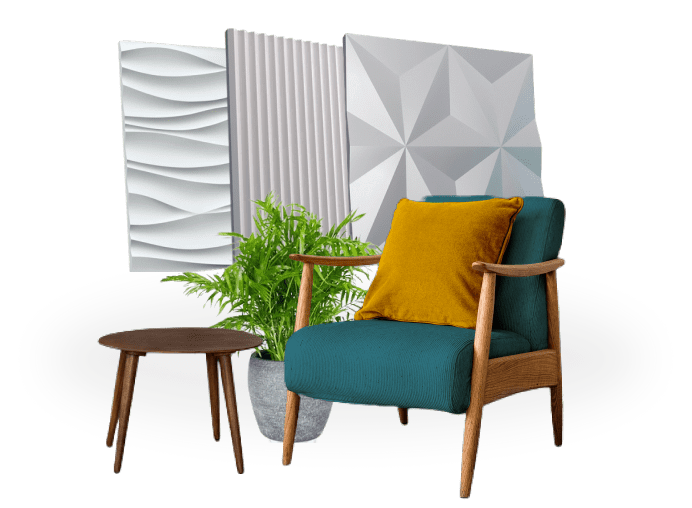
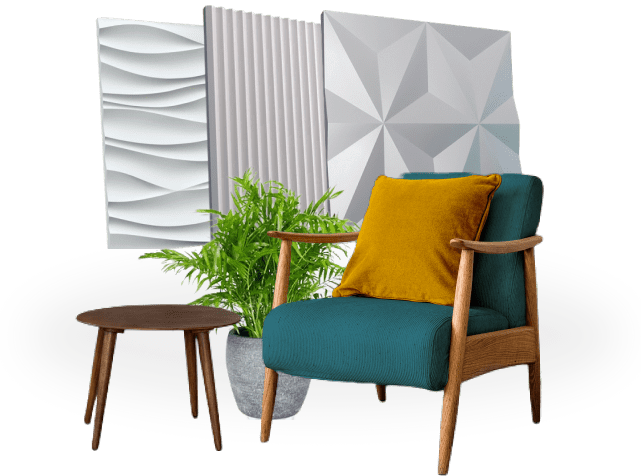
firstscreen apadtation

Changed region(s): [[0.1248, 0.0, 0.8736, 1.0]]

diff --git a/assets/css/style.min.css b/assets/css/style.min.css
@@ -1,1 +1,1 @@
-*{padding:0;margin:0;border:0}*,*:before,*:after{box-sizing:border-box}:focus,:active{outline:none}a:focus,a:active{outline:none}nav,footer,header,aside{display:block}html,body{height:100%;width:100%;line-height:1;font-family:PT Serif;font-size:16px;color:#515151;-ms-text-size-adjust:100%;-moz-text-size-adjust:100%;-webkit-text-size-adjust:100%}input,button,textarea{font-family:inherit}input::-ms-clear{display:none}button{cursor:pointer}button::-moz-focus-inner{padding:0;border:0}a,a:visited{text-decoration:none}a:hover{text-decoration:none}ul li{list-style:none}img{vertical-align:top}h1,h2,h3,h4,h5,h6{font-size:inherit;font-weight:inherit;line-height:1.3em}h2{color:#515151;font-family:PT Serif;font-size:30px;max-width:750px}p,a,li{line-height:1.3em}a{color:#515151}.icon{width:30px;height:30px}.container{max-width:1184px;width:100%;margin:0 auto;padding:0 20px}.button{font-family:PT Serif Caption;width:375px;border-radius:40px;background:linear-gradient(143deg, #64bbf8 0%, #011f90 100%);box-shadow:0px 0px 10px 10px rgba(1,31,144,.1);padding:24px 20px;color:#fff;font-size:20px}.hidden{display:none}@media(max-width: 480){body,html{font-size:14px}}.header{top:0;left:0;width:100%;background-color:#e4f4ff;padding:16px 0}.header__wrapper{display:flex;justify-content:space-between;align-items:center}.header__logo{width:97px;height:83px}.header__menu{display:flex;align-items:center;margin:0 20px}.header__phone{display:flex;align-items:center}.header__phone-link{display:flex;align-items:center;font-size:20px}.header__phone-link svg{margin-right:10px}.menu__list{display:flex;align-items:center;margin:0 -12.5px}.menu__item{display:inline-block;padding:0 12.5px}.menu__link{font-size:18px}.burger-icon{display:none;flex-direction:column;justify-content:space-between;width:30px;height:20px;cursor:pointer}.burger-icon span{display:block;width:100%;height:3px;background-color:#000;transition:background-color .3s}.burger-menu.active .burger-icon span:nth-child(1){transform:rotate(45deg) translate(7px, 7px)}.burger-menu.active .burger-icon span:nth-child(2){opacity:0}.burger-menu.active .burger-icon span:nth-child(3){transform:rotate(-45deg) translate(5px, -5px)}@media screen and (max-width: 1080px){.burger-icon{display:flex}.header__menu{display:none}.burger-menu.active .header__menu{display:flex}.header__wrapper{justify-content:flex-end}.header__logo{order:1;margin-right:auto}.header .burger-menu{order:3;margin-left:20px}.header__phone{order:2}.header__menu{position:absolute;top:120px;right:0;flex-direction:column}.menu__list{align-items:flex-start;flex-direction:column;align-items:stretch;margin:0;z-index:5;background-color:#e4f4ff}.menu__item{padding:10px 15px}}@media screen and (max-width: 480px){.header{padding:4px 0}.header__logo{width:60px;max-height:60px}.header__phone span{display:none}.header__menu{top:80px}.menu__link{font-size:16px}}.firstscreen{background:linear-gradient(180deg, #e4f4ff 0%, #ceebff 100%);padding:44px 0 55px}.firstscreen__wrapper{position:relative}.firstscreen__top{display:flex;justify-content:space-between}.firstscreen__left{position:relative;z-index:1}.firstscreen__content{max-width:665px}.firstscreen__title{font-size:34px;font-weight:700}.firstscreen__title strong{color:#3875c9}.firstscreen__subtitle{font-size:24px;margin-top:24px}.firstscreen__subtitle-bottom{color:#3875c9;font-weight:700;margin-top:10px}.firstscreen__button{margin-top:30px}.firstscreen__button-sale{position:relative}.firstscreen__button-video{position:relative;max-width:none;width:auto;padding:20px 15px 20px 73px;font-size:16px;margin-left:115px;line-height:1em}.firstscreen__button-video .icon{width:60px;height:60px;position:absolute;left:-5px;top:0}.firstscreen__sale{position:absolute;right:-65px;top:-16px}.firstscreen__right{position:relative}.firstscreen__right img{position:absolute;top:18px;right:-126px}.firstscreen__bottom{position:relative;z-index:1}.firstscreen__list{display:flex;justify-content:space-between;flex-wrap:wrap;margin-top:45px}.firstscreen__item{display:flex;align-items:flex-start;max-width:362px;border:1px solid #64bbf8;background:#fff;padding:20px;border-radius:5px}.firstscreen__item img{max-width:67px}.firstscreen__item-content{margin-left:15px}.firstscreen__item-content h3{color:#515151;font-size:18px;font-weight:700}.firstscreen__item-content p{margin-top:5px}.about{margin-top:30px}.about__wrap{display:flex;justify-content:space-between;margin-top:60px}.about__left{width:49%;height:auto}.about__left img{width:100%;height:100%;-o-object-fit:cover;object-fit:cover;border-radius:5px;box-shadow:0px 4px 4px 0px rgba(0,0,0,.25)}.about__right{display:flex;flex-direction:column;align-items:center;width:49%}.about__right img{width:100%;height:300px;-o-object-fit:cover;object-fit:cover;margin-top:28px;border-radius:5px;box-shadow:0px 4px 4px 0px rgba(0,0,0,.25)}.about__list{width:100%;margin-left:calc(2% + 5px)}.about__item:first-child{margin-top:0}.about__item{box-sizing:content-box;list-style-type:disc;margin-left:2%;margin-top:20px;line-height:1.4em}.about .button{margin-top:28px}.step{margin-top:85px}.step__wrapper{display:flex;justify-content:space-between;margin-top:60px}.step__col{width:43%;display:flex;flex-direction:column}.step__col:last-child{margin-top:150px}.step__item:first-child{margin-top:0}.step__item{position:relative;border-radius:5px;border:1px solid #64bbf8;background:#fff;margin-top:72px;padding:17px 30px 25px}.step__top{display:flex;align-items:center}.step__top img{max-width:66px;max-height:66px;-o-object-fit:contain;object-fit:contain}.step__title{margin-left:14px;font-size:20px;font-weight:700}.step__text{margin-top:7px}.step__col:first-child .step__number{top:34%;right:-107px}.step__col:last-child .step__number{top:41%;left:-107px}.step__number{position:absolute;background-color:#3875c9;padding:6px 12px;border-radius:50%;font-size:30px;font-weight:700;border:5px solid #64bbf8;color:#fff;box-shadow:0px 0px 4px 6px #64bbf8}.step__col:first-child .step__number::before{right:100%}.step__col:last-child .step__number::before{left:100%}.step__number::before{content:"";position:absolute;display:block;top:calc(50% - .5px);width:100px;height:1px;background:#64bbf8;z-index:-1}.step__number::after{content:"";position:absolute;display:block;top:100%;left:calc(50% - .5px);width:1px;height:120px;background:#64bbf8;z-index:-1}.step__item:last-child .step__number:after{display:none}.step__download{margin-top:30px;text-align:center}.step__download a{color:#3875c9;font-size:20px;text-decoration-line:underline}.step .button{margin-top:20px}.catalog{margin-top:85px}.catalog__list{display:flex;flex-wrap:wrap;margin:50px -15px -15px -15px}.catalog__item{width:calc(25% - 30px);display:flex;flex-direction:column;border-radius:5px;border:1px solid #64bbf8;background:#fff;margin:21px 15px}.catalog__image{width:100%;height:165px;border-radius:5px 5px 0px 0px;-o-object-fit:cover;object-fit:cover}.catalog__sale{display:flex;justify-content:flex-end;align-items:center;background:#ececec;color:#353535}.catalog__sale strong{color:#515151;font-weight:700;border-radius:10px 0px 0px 0px;background:rgba(131,204,255,.4);padding:3px 15px 4px;margin-left:10px}.catalog .catalog__content{padding:10px 20px 25px}.catalog__item-title{font-size:20px;font-weight:700}.catalog__more{font-family:PT Serif Caption;margin-top:18px;color:#3875c9;float:right;text-decoration-line:underline}.catalog .button{width:100%;font-size:16px;padding:12px 15px;margin-top:18px}.feedback{background:rgba(131,204,255,.4);padding:48px 0;margin-top:65px}.feedback__wrapper{display:flex;justify-content:space-between;align-items:center}.feedback__title{font-size:30px;font-weight:400}.feedback__button{display:flex;align-items:center;border-radius:40px;background:linear-gradient(143deg, #64f873 0%, #019007 100%);box-shadow:0px 0px 10px 10px rgba(1,31,144,.1);padding:20px 30px 15px;margin-left:20px}.feedback .icon{margin-right:23px}.feedback .icon use{width:35px;height:36.81px}.director__title{margin-top:65px;font-size:30px;font-weight:400;line-height:40px;letter-spacing:0em;text-align:left}.director__wrapper{margin-top:94px;display:flex}.director__image-wrap{border:30px solid rgba(131,204,255,.4)}.director__info{margin-left:37px;font-size:18px;font-weight:400;line-height:24px;letter-spacing:0em;text-align:left}.director__text{margin-top:30px}.director .button{margin-top:33px;margin-left:243px}.checkout{margin-top:85px}.checkout__list{display:flex;flex-wrap:wrap;margin-top:100px;margin:53px -25px -47px}.checkout__item{position:relative;width:calc(33% - 50px);padding:25px 25px 15px;margin:47px 25px;border-radius:5px;background:var(--unnamed, linear-gradient(180deg, rgba(131, 204, 255, 0.4) 0%, rgba(131, 204, 255, 0) 100%));box-shadow:0px 4px 4px 0px rgba(0,0,0,.25)}.checkout__number{position:absolute;bottom:calc(100% - 2px);left:20px}.checkout__item-title{font-size:20px;font-weight:700}.checkout__text{position:relative;margin-top:5px;z-index:1;max-width:80%}.checkout__img-wrap{position:absolute;bottom:0;right:0;overflow:hidden}.checkout__img{transform:translateX(20px) translateY(25px)}.checkout__button{margin-top:57px;display:flex;justify-content:center}.payment__title{margin-top:85px;font-size:30px;line-height:40px;text-align:left;color:#515151}.payment__wrap{display:flex;justify-content:space-between}.payment__left{width:48%;padding-bottom:60px}.payment__left-title{font-size:24px;font-weight:700;line-height:32px;letter-spacing:0em;text-align:left;margin-top:65px;color:#515151}.payment__text{font-size:18px;line-height:24px;letter-spacing:0em;text-align:left;margin-top:23px;color:#515151}.payment__list{margin-top:22px;font-size:16px;font-weight:700;line-height:21px;letter-spacing:0em;text-align:left;font-size:16px;line-height:21px;letter-spacing:0em;text-align:left;color:#515151}.payment__item{display:flex;margin-top:23px}.payment .icon{margin-right:13px;width:32px;height:32px}.payment__item-text{width:100%}.payment__button{display:flex;justify-content:center;margin-top:39px}.payment__right{width:48%;margin-left:20px}.payment__right img{width:100%;height:100%;-o-object-fit:cover;object-fit:cover}.payment__bottom{background:rgba(131,204,255,.4)}.payment__bottom-wrap{display:flex;align-items:center;justify-content:space-between}.payment__bottom-left{width:48%}.payment__bottom-image{width:100%;height:100%}.payment__bottom-image img{width:100%;height:100%;-o-object-fit:cover;object-fit:cover}.payment__bottom-right{width:50%;margin-left:20px;padding:10px 0}.payment__bottom-title{font-size:24px;font-weight:700;line-height:32px}.payment__bottom-text-wrap{display:flex;margin-top:23px}.payment__bottom-text{width:100%}.action{margin-top:85px}.action__wrapper{display:flex}.action__left{width:41%}.action__image{width:100%;height:100%}.action__image img{width:100%;height:100%;-o-object-fit:cover;object-fit:cover}.action__right{width:55%;margin-left:46px}.action__suptitle{font-size:30px;font-weight:400;line-height:40px}.action__title{margin-top:34px;font-size:24px;font-weight:700;line-height:32px}.action__text{margin-top:19px;font-family:PT Serif;font-size:18px;font-weight:400;line-height:24px;letter-spacing:0em;text-align:left;color:#515151}.action__button-wrap{display:flex;justify-content:space-between;margin-top:46px}.action__button{margin-right:20px;background:#fff;box-shadow:0px 0px 10px 10px rgba(1,31,144,.1);color:#515151}.gallery__title{padding-top:85px;font-family:PT Serif;font-size:30px;font-weight:400;line-height:40px;letter-spacing:0em;text-align:left;color:#515151}.gallery__wrap{display:flex;align-items:flex-end;margin-top:65px}.gallery__right{display:flex;flex-direction:column;margin-left:35px}.gallery__left{display:flex;flex-direction:column}.gallery__image:first-child{margin-top:0}.gallery__image{width:100%;border-radius:5px;margin-top:35px;box-shadow:0px 4px 4px 0px rgba(0,0,0,.2509803922);-o-object-fit:cover;object-fit:cover;-o-object-position:center;object-position:center}.gallery__left .gallery__image:nth-child(1){height:363px}.gallery__left .gallery__image:nth-child(2){height:473px}.gallery__left .gallery__image:nth-child(3){height:319px}.gallery__right .gallery__image:nth-child(1){height:50%}.gallery__right .gallery__image:nth-child(2){height:calc(50% - 35px)}.answer{margin-top:85px}.answer__wrap{margin-top:65px}.answer__details:first-child{margin-top:0}.answer__details{margin-top:17px}.answer__summary{padding:25px 30px;border:1px solid #64bbf8;font-size:24px}.answer__text{padding:0 30px;margin-top:30px}.answer__button{display:flex;justify-content:center;margin-top:46px}.footer{margin-top:50px;padding:40px 0 0 0;background:rgba(131,204,255,.4)}.footer__wrapper{display:flex;flex-direction:column;justify-content:space-between}.footer__top{display:flex;justify-content:space-between;padding-bottom:45px}.footer__top-left{width:48%}.footer__top-left img{width:100%;height:100%;-o-object-fit:cover;object-fit:cover}.footer__top-right{margin-left:20px;width:40%}.footer__top-right .button{max-width:375px;width:100%;margin-top:56px}.footer__top-title{margin-top:46px;font-family:PT Serif;font-size:30px;font-weight:400;line-height:40px;letter-spacing:0em;text-align:left;color:#515151}.footer__top-list{margin-top:34px;font-family:PT Serif;font-size:18px;font-weight:400;line-height:24px;letter-spacing:0em;text-align:left;color:#353535}.footer__top-item{display:flex;align-items:center;margin-top:23px}.footer__top-item .icon{margin-right:15px}.footer__bottom{padding:20px 0 16px;background:#d9d9d9}.footer__bottom-wrapper{display:flex;justify-content:space-between}.footer__left{display:flex;background:#d9d9d9;font-family:PT Serif;font-size:16px;font-weight:400;line-height:21px;letter-spacing:0em;text-align:left;color:#000}.footer__left .footer__bottom-info:last-child{margin-left:106px}.footer__right{display:flex;margin-left:20px}.footer__right .footer__bottom-info{margin-right:40px}
+*{padding:0;margin:0;border:0}*,*:before,*:after{box-sizing:border-box}:focus,:active{outline:none}a:focus,a:active{outline:none}nav,footer,header,aside{display:block}html,body{height:100%;width:100%;line-height:1;font-family:PT Serif;font-size:16px;color:#515151;-ms-text-size-adjust:100%;-moz-text-size-adjust:100%;-webkit-text-size-adjust:100%}input,button,textarea{font-family:inherit}input::-ms-clear{display:none}button{cursor:pointer}button::-moz-focus-inner{padding:0;border:0}a,a:visited{text-decoration:none}a:hover{text-decoration:none}ul li{list-style:none}img{vertical-align:top}h1,h2,h3,h4,h5,h6{font-size:inherit;font-weight:inherit;line-height:1.3em}h2{font-size:30px;max-width:750px}p,a,li{line-height:1.3em}a{color:#515151}.icon{width:30px;height:30px}.container{max-width:1184px;width:100%;margin:0 auto;padding:0 20px}.button{font-family:PT Serif Caption;width:375px;border-radius:40px;background:linear-gradient(143deg, #64bbf8 0%, #011f90 100%);box-shadow:0px 0px 10px 10px rgba(1,31,144,.1);padding:24px 20px;color:#fff;font-size:20px}.hidden{display:none}@media(max-width: 480px){body,html{font-size:16px}h2{font-size:22px}h2{font-size:20px}.button{width:100%;padding:16px 12px;font-size:16px}}.header{top:0;left:0;width:100%;background-color:#e4f4ff;padding:16px 0}.header__wrapper{display:flex;justify-content:space-between;align-items:center}.header__logo{width:97px;height:83px}.header__menu{display:flex;align-items:center;margin:0 20px}.header__phone{display:flex;align-items:center}.header__phone-link{display:flex;align-items:center;font-size:20px}.header__phone-link svg{margin-right:10px}.menu__list{display:flex;align-items:center;margin:0 -12.5px}.menu__item{display:inline-block;padding:0 12.5px}.menu__link{font-size:18px}.burger-icon{display:none;flex-direction:column;justify-content:space-between;width:30px;height:20px;cursor:pointer}.burger-icon span{display:block;width:100%;height:3px;background-color:#000;transition:background-color .3s}.burger-menu.active .burger-icon span:nth-child(1){transform:rotate(45deg) translate(7px, 7px)}.burger-menu.active .burger-icon span:nth-child(2){opacity:0}.burger-menu.active .burger-icon span:nth-child(3){transform:rotate(-45deg) translate(5px, -5px)}@media screen and (max-width: 1080px){.burger-icon{display:flex}.header__menu{display:none}.burger-menu.active .header__menu{display:flex}.header__wrapper{justify-content:flex-end}.header__logo{order:1;margin-right:auto}.header .burger-menu{order:3;margin-left:20px}.header__phone{order:2}.header__menu{position:absolute;top:120px;right:0;flex-direction:column}.menu__list{align-items:flex-start;flex-direction:column;align-items:stretch;margin:0;z-index:5;background-color:#e4f4ff;box-shadow:0px 0px 5px 1px rgba(0,0,0,.0588235294)}.menu__item{padding:10px 15px}}@media screen and (max-width: 480px){.header{padding:4px 0}.header__logo{width:60px;max-height:60px}.header__phone span{display:none}.header__menu{top:80px}.menu__link{font-size:16px}}.firstscreen{background:linear-gradient(180deg, #e4f4ff 0%, #ceebff 100%);padding:44px 0 55px}.firstscreen__wrapper{position:relative}.firstscreen__top{display:flex;justify-content:space-between}.firstscreen__left{position:relative;z-index:1}.firstscreen__content{max-width:665px}.firstscreen__title{font-size:34px;font-weight:700}.firstscreen__title strong{color:#3875c9}.firstscreen__subtitle{font-size:24px;margin-top:24px}.firstscreen__subtitle-bottom{color:#3875c9;font-weight:700;margin-top:10px}.firstscreen__button{margin-top:30px}.firstscreen__button-sale{position:relative}.firstscreen__button-video{position:relative;max-width:none;width:auto;padding:20px 15px 20px 73px;font-size:16px;margin-left:115px;line-height:1em}.firstscreen__button-video .icon{width:60px;height:60px;position:absolute;left:-5px;top:0}.firstscreen__sale{position:absolute;right:-65px;top:-16px}.firstscreen__right{position:relative}.firstscreen__right img{position:absolute;top:18px;right:-80px;width:517.057px;height:auto}.firstscreen__bottom{position:relative;z-index:1}.firstscreen__list{display:flex;justify-content:space-between;flex-wrap:wrap;margin-top:45px}.firstscreen__item{display:flex;align-items:flex-start;max-width:362px;border:1px solid #64bbf8;background:#fff;padding:20px;border-radius:5px}.firstscreen__item img{max-width:67px}.firstscreen__item-content{margin-left:15px}.firstscreen__item-content h3{color:#515151;font-size:18px;font-weight:700}.firstscreen__item-content p{margin-top:5px}@media(max-width: 1360px){.firstscreen__right img{top:18px;right:0;width:450px}.firstscreen__list{justify-content:space-evenly}.firstscreen__item{margin-bottom:20px}}@media(max-width: 1080px){.firstscreen__right{display:none}}@media(max-width: 780px){.firstscreen .button:last-child{padding:20px 15px 20px 73px;margin-left:70px}.firstscreen__button-sale{padding:20px 20px;width:auto}}@media(max-width: 580px){.firstscreen .button:last-child{padding:20px 15px 20px 73px;margin-left:0;margin-top:50px}.firstscreen__button-sale{padding:24px 20px;max-width:375px;width:100%}}@media(max-width: 580px){.firstscreen .button:last-child{padding:20px 15px 20px 73px;margin-left:0;margin-top:50px}.firstscreen__button-sale{padding:24px 20px;max-width:81vw;width:100%}.firstscreen__button-sale img{right:-12vw;top:-3vw;width:27vw}}@media(max-width: 480px){.firstscreen{padding:20px 0}.firstscreen .button:last-child{margin-top:30px}.firstscreen__button-sale{padding:16px 12px;font-size:16px}.firstscreen__title{font-size:26px}.firstscreen__subtitle{font-size:18px}.firstscreen__item{padding:15px 10px}.firstscreen__item img{width:15vw}.firstscreen__item-content h3{font-size:20px}}.about{margin-top:30px}.about__wrap{display:flex;justify-content:space-between;margin-top:60px}.about__left{width:49%;height:auto}.about__left img{width:100%;height:100%;-o-object-fit:cover;object-fit:cover;border-radius:5px;box-shadow:0px 4px 4px 0px rgba(0,0,0,.25)}.about__right{display:flex;flex-direction:column;align-items:center;width:49%}.about__right img{width:100%;height:300px;-o-object-fit:cover;object-fit:cover;margin-top:28px;border-radius:5px;box-shadow:0px 4px 4px 0px rgba(0,0,0,.25)}.about__list{width:100%;margin-left:calc(2% + 5px)}.about__item:first-child{margin-top:0}.about__item{box-sizing:content-box;list-style-type:disc;margin-left:2%;margin-top:20px;line-height:1.4em}.about .button{margin-top:28px}.step{margin-top:85px}.step__wrapper{display:flex;justify-content:space-between;margin-top:60px}.step__col{width:43%;display:flex;flex-direction:column}.step__col:last-child{margin-top:150px}.step__item:first-child{margin-top:0}.step__item{position:relative;border-radius:5px;border:1px solid #64bbf8;background:#fff;margin-top:72px;padding:17px 30px 25px}.step__top{display:flex;align-items:center}.step__top img{max-width:66px;max-height:66px;-o-object-fit:contain;object-fit:contain}.step__title{margin-left:14px;font-size:20px;font-weight:700}.step__text{margin-top:7px}.step__col:first-child .step__number{top:34%;right:-107px}.step__col:last-child .step__number{top:41%;left:-107px}.step__number{position:absolute;background-color:#3875c9;padding:6px 12px;border-radius:50%;font-size:30px;font-weight:700;border:5px solid #64bbf8;color:#fff;box-shadow:0px 0px 4px 6px #64bbf8}.step__col:first-child .step__number::before{right:100%}.step__col:last-child .step__number::before{left:100%}.step__number::before{content:"";position:absolute;display:block;top:calc(50% - .5px);width:100px;height:1px;background:#64bbf8;z-index:-1}.step__number::after{content:"";position:absolute;display:block;top:100%;left:calc(50% - .5px);width:1px;height:120px;background:#64bbf8;z-index:-1}.step__item:last-child .step__number:after{display:none}.step__download{margin-top:30px;text-align:center}.step__download a{color:#3875c9;font-size:20px;text-decoration-line:underline}.step .button{margin-top:20px}.catalog{margin-top:85px}.catalog__list{display:flex;flex-wrap:wrap;margin:50px -15px -15px -15px}.catalog__item{width:calc(25% - 30px);display:flex;flex-direction:column;border-radius:5px;border:1px solid #64bbf8;background:#fff;margin:21px 15px}.catalog__image{width:100%;height:165px;border-radius:5px 5px 0px 0px;-o-object-fit:cover;object-fit:cover}.catalog__sale{display:flex;justify-content:flex-end;align-items:center;background:#ececec;color:#353535}.catalog__sale strong{color:#515151;font-weight:700;border-radius:10px 0px 0px 0px;background:rgba(131,204,255,.4);padding:3px 15px 4px;margin-left:10px}.catalog .catalog__content{padding:10px 20px 25px}.catalog__item-title{font-size:20px;font-weight:700}.catalog__more{font-family:PT Serif Caption;margin-top:18px;color:#3875c9;float:right;text-decoration-line:underline}.catalog .button{width:100%;font-size:16px;padding:12px 15px;margin-top:18px}.feedback{background:rgba(131,204,255,.4);padding:48px 0;margin-top:65px}.feedback__wrapper{display:flex;justify-content:space-between;align-items:center}.feedback__title{font-size:30px;font-weight:400}.feedback__button{display:flex;align-items:center;border-radius:40px;background:linear-gradient(143deg, #64f873 0%, #019007 100%);box-shadow:0px 0px 10px 10px rgba(1,31,144,.1);padding:20px 30px 15px;margin-left:20px}.feedback .icon{margin-right:23px}.feedback .icon use{width:35px;height:36.81px}.director__title{margin-top:65px;font-size:30px;font-weight:400;line-height:40px;letter-spacing:0em;text-align:left}.director__wrapper{margin-top:94px;display:flex}.director__image-wrap{border:30px solid rgba(131,204,255,.4)}.director__info{margin-left:37px;font-size:18px;font-weight:400;line-height:24px;letter-spacing:0em;text-align:left}.director__text{margin-top:30px}.director .button{margin-top:33px;margin-left:243px}.checkout{margin-top:85px}.checkout__list{display:flex;flex-wrap:wrap;margin-top:100px;margin:53px -25px -47px}.checkout__item{position:relative;width:calc(33% - 50px);padding:25px 25px 15px;margin:47px 25px;border-radius:5px;background:var(--unnamed, linear-gradient(180deg, rgba(131, 204, 255, 0.4) 0%, rgba(131, 204, 255, 0) 100%));box-shadow:0px 4px 4px 0px rgba(0,0,0,.25)}.checkout__number{position:absolute;bottom:calc(100% - 2px);left:20px}.checkout__item-title{font-size:20px;font-weight:700}.checkout__text{position:relative;margin-top:5px;z-index:1;max-width:80%}.checkout__img-wrap{position:absolute;bottom:0;right:0;overflow:hidden}.checkout__img{transform:translateX(20px) translateY(25px)}.checkout__button{margin-top:57px;display:flex;justify-content:center}.payment__title{margin-top:85px;font-size:30px;line-height:40px;text-align:left;color:#515151}.payment__wrap{display:flex;justify-content:space-between}.payment__left{width:48%;padding-bottom:60px}.payment__left-title{font-size:24px;font-weight:700;line-height:32px;letter-spacing:0em;text-align:left;margin-top:65px;color:#515151}.payment__text{font-size:18px;line-height:24px;letter-spacing:0em;text-align:left;margin-top:23px;color:#515151}.payment__list{margin-top:22px;font-size:16px;font-weight:700;line-height:21px;letter-spacing:0em;text-align:left;font-size:16px;line-height:21px;letter-spacing:0em;text-align:left;color:#515151}.payment__item{display:flex;margin-top:23px}.payment .icon{margin-right:13px;width:32px;height:32px}.payment__item-text{width:100%}.payment__button{display:flex;justify-content:center;margin-top:39px}.payment__right{width:48%;margin-left:20px}.payment__right img{width:100%;height:100%;-o-object-fit:cover;object-fit:cover}.payment__bottom{background:rgba(131,204,255,.4)}.payment__bottom-wrap{display:flex;align-items:center;justify-content:space-between}.payment__bottom-left{width:48%}.payment__bottom-image{width:100%;height:100%}.payment__bottom-image img{width:100%;height:100%;-o-object-fit:cover;object-fit:cover}.payment__bottom-right{width:50%;margin-left:20px;padding:10px 0}.payment__bottom-title{font-size:24px;font-weight:700;line-height:32px}.payment__bottom-text-wrap{display:flex;margin-top:23px}.payment__bottom-text{width:100%}.action{margin-top:85px}.action__wrapper{display:flex}.action__left{width:41%}.action__image{width:100%;height:100%}.action__image img{width:100%;height:100%;-o-object-fit:cover;object-fit:cover}.action__right{width:55%;margin-left:46px}.action__suptitle{font-size:30px;font-weight:400;line-height:40px}.action__title{margin-top:34px;font-size:24px;font-weight:700;line-height:32px}.action__text{margin-top:19px;font-family:PT Serif;font-size:18px;font-weight:400;line-height:24px;letter-spacing:0em;text-align:left;color:#515151}.action__button-wrap{display:flex;justify-content:space-between;margin-top:46px}.action__button{margin-right:20px;background:#fff;box-shadow:0px 0px 10px 10px rgba(1,31,144,.1);color:#515151}.gallery__title{padding-top:85px;font-family:PT Serif;font-size:30px;font-weight:400;line-height:40px;letter-spacing:0em;text-align:left;color:#515151}.gallery__wrap{display:flex;align-items:flex-end;margin-top:65px}.gallery__right{display:flex;flex-direction:column;margin-left:35px}.gallery__left{display:flex;flex-direction:column}.gallery__image:first-child{margin-top:0}.gallery__image{width:100%;border-radius:5px;margin-top:35px;box-shadow:0px 4px 4px 0px rgba(0,0,0,.2509803922);-o-object-fit:cover;object-fit:cover;-o-object-position:center;object-position:center}.gallery__left .gallery__image:nth-child(1){height:363px}.gallery__left .gallery__image:nth-child(2){height:473px}.gallery__left .gallery__image:nth-child(3){height:319px}.gallery__right .gallery__image:nth-child(1){height:50%}.gallery__right .gallery__image:nth-child(2){height:calc(50% - 35px)}.answer{margin-top:85px}.answer__wrap{margin-top:65px}.answer__details:first-child{margin-top:0}.answer__details{margin-top:17px}.answer__summary{padding:25px 30px;border:1px solid #64bbf8;font-size:24px}.answer__text{padding:0 30px;margin-top:30px}.answer__button{display:flex;justify-content:center;margin-top:46px}.footer{margin-top:50px;padding:40px 0 0 0;background:rgba(131,204,255,.4)}.footer__wrapper{display:flex;flex-direction:column;justify-content:space-between}.footer__top{display:flex;justify-content:space-between;padding-bottom:45px}.footer__top-left{width:48%}.footer__top-left img{width:100%;height:100%;-o-object-fit:cover;object-fit:cover}.footer__top-right{margin-left:20px;width:40%}.footer__top-right .button{max-width:375px;width:100%;margin-top:56px}.footer__top-title{margin-top:46px;font-family:PT Serif;font-size:30px;font-weight:400;line-height:40px;letter-spacing:0em;text-align:left;color:#515151}.footer__top-list{margin-top:34px;font-family:PT Serif;font-size:18px;font-weight:400;line-height:24px;letter-spacing:0em;text-align:left;color:#353535}.footer__top-item{display:flex;align-items:center;margin-top:23px}.footer__top-item .icon{margin-right:15px}.footer__bottom{padding:20px 0 16px;background:#d9d9d9}.footer__bottom-wrapper{display:flex;justify-content:space-between}.footer__left{display:flex;background:#d9d9d9;font-family:PT Serif;font-size:16px;font-weight:400;line-height:21px;letter-spacing:0em;text-align:left;color:#000}.footer__left .footer__bottom-info:last-child{margin-left:106px}.footer__right{display:flex;margin-left:20px}.footer__right .footer__bottom-info{margin-right:40px}

diff --git a/assets/scss/style/_firstscreen.scss b/assets/scss/style/_firstscreen.scss
@@ -88,12 +88,14 @@
         img {
             position: absolute;
             top: 18px;
-            right: -126px;
+            right: -80px;
+            width: 517.057px;
+            height: auto;
         }
     }
     // .firstscreen__list
 
-    &__bottom{
+    &__bottom {
         position: relative;
         z-index: 1;
     }
@@ -128,8 +130,106 @@
             font-size: 18px;
             font-weight: 700;
         }
-        p{
+        p {
             margin-top: 5px;
         }
+    }
+}
+@media (max-width: 1360px) {
+    .firstscreen {
+        &__right {
+            img {
+                top: 18px;
+                right: 0;
+                width: 450px;
+            }
+        }
+        &__list {
+            justify-content: space-evenly;
+        }
+        &__item {
+            margin-bottom: 20px;
+        }
+    }
+}
+@media (max-width: 1080px) {
+    .firstscreen {
+        &__right {
+            display: none;
+        }
+    }
+}
+@media (max-width: 780px) {
+    .firstscreen {
+        .button:last-child {
+            padding: 20px 15px 20px 73px;
+            margin-left: 70px;
+        }
+        &__button-sale {
+            padding: 20px 20px;
+            width: auto;
+        }
+    }
+}
+
+@media (max-width: 580px) {
+    .firstscreen {
+        .button:last-child {
+            padding: 20px 15px 20px 73px;
+            margin-left: 0;
+            margin-top: 50px;
+        }
+        &__button-sale {
+            padding: 24px 20px;
+            max-width: 375px;
+            width: 100%;
+        }
+    }
+}
+
+@media (max-width: 580px) {
+    .firstscreen {
+        .button:last-child {
+            padding: 20px 15px 20px 73px;
+            margin-left: 0;
+            margin-top: 50px;
+        }
+        &__button-sale {
+            padding: 24px 20px;
+            max-width: 81vw;
+            width: 100%;
+            img {
+                right: -12vw;
+                top: -3vw;
+                width: 27vw;
+            }
+        }
+    }
+}
+@media (max-width: 480px) {
+    .firstscreen {
+        padding: 20px 0;
+    }
+    .firstscreen .button:last-child {
+        margin-top: 30px;
+    }
+    .firstscreen__button-sale {
+        padding: 16px 12px;
+        font-size: 16px;
+    }
+    .firstscreen__title {
+        font-size: 26px;
+    }
+    .firstscreen__subtitle {
+        font-size: 18px;
+    }
+    .firstscreen__item{
+        padding: 15px 10px;
+        img{
+            width: 15vw;
+        }
+    }
+    .firstscreen__item-content h3{
+        font-size: 20px;
     }
 }

diff --git a/index.html b/index.html
@@ -87,7 +87,7 @@
                                 <img src="./assets/image/firstscreen-img.png" alt="изображение" />
                             </div>
                         </div>
-                        <!-- <div class="firstscreen__bottom">
+                        <div class="firstscreen__bottom">
                             <h2 class="hidden">Кароточки с УТП</h2>
                             <ul class="firstscreen__list">
                                 <li class="firstscreen__item">
@@ -130,7 +130,7 @@
                                     </div>
                                 </li>
                             </ul>
-                        </div> -->
+                        </div>
                     </div>
                 </div>
             </section>

diff --git a/assets/scss/style/_global.scss b/assets/scss/style/_global.scss
@@ -75,8 +75,6 @@ h6 {
     line-height: 1.3em;
 }
 h2 {
-    color: #515151;
-    font-family: PT Serif;
     font-size: 30px;
     max-width: 750px;
 }
@@ -112,9 +110,20 @@ a {
 .hidden {
     display: none;
 }
-@media (max-width: 480) {
+@media (max-width: 480px) {
     body,
     html {
-        font-size: 14px;
+        font-size: 16px;
+    }
+    h2 {
+        font-size: 22px;
+    }
+    h2 {
+        font-size: 20px;
+    }
+    .button {
+        width: 100%;
+        padding: 16px 12px;
+        font-size: 16px;
     }
 }

diff --git a/assets/scss/style/_header.scss b/assets/scss/style/_header.scss
@@ -141,6 +141,7 @@
             margin: 0;
             z-index: 5;
             background-color: #e4f4ff;
+            box-shadow: 0px 0px 5px 1px #0000000f;
         }
         &__item {
             padding: 10px 15px;
